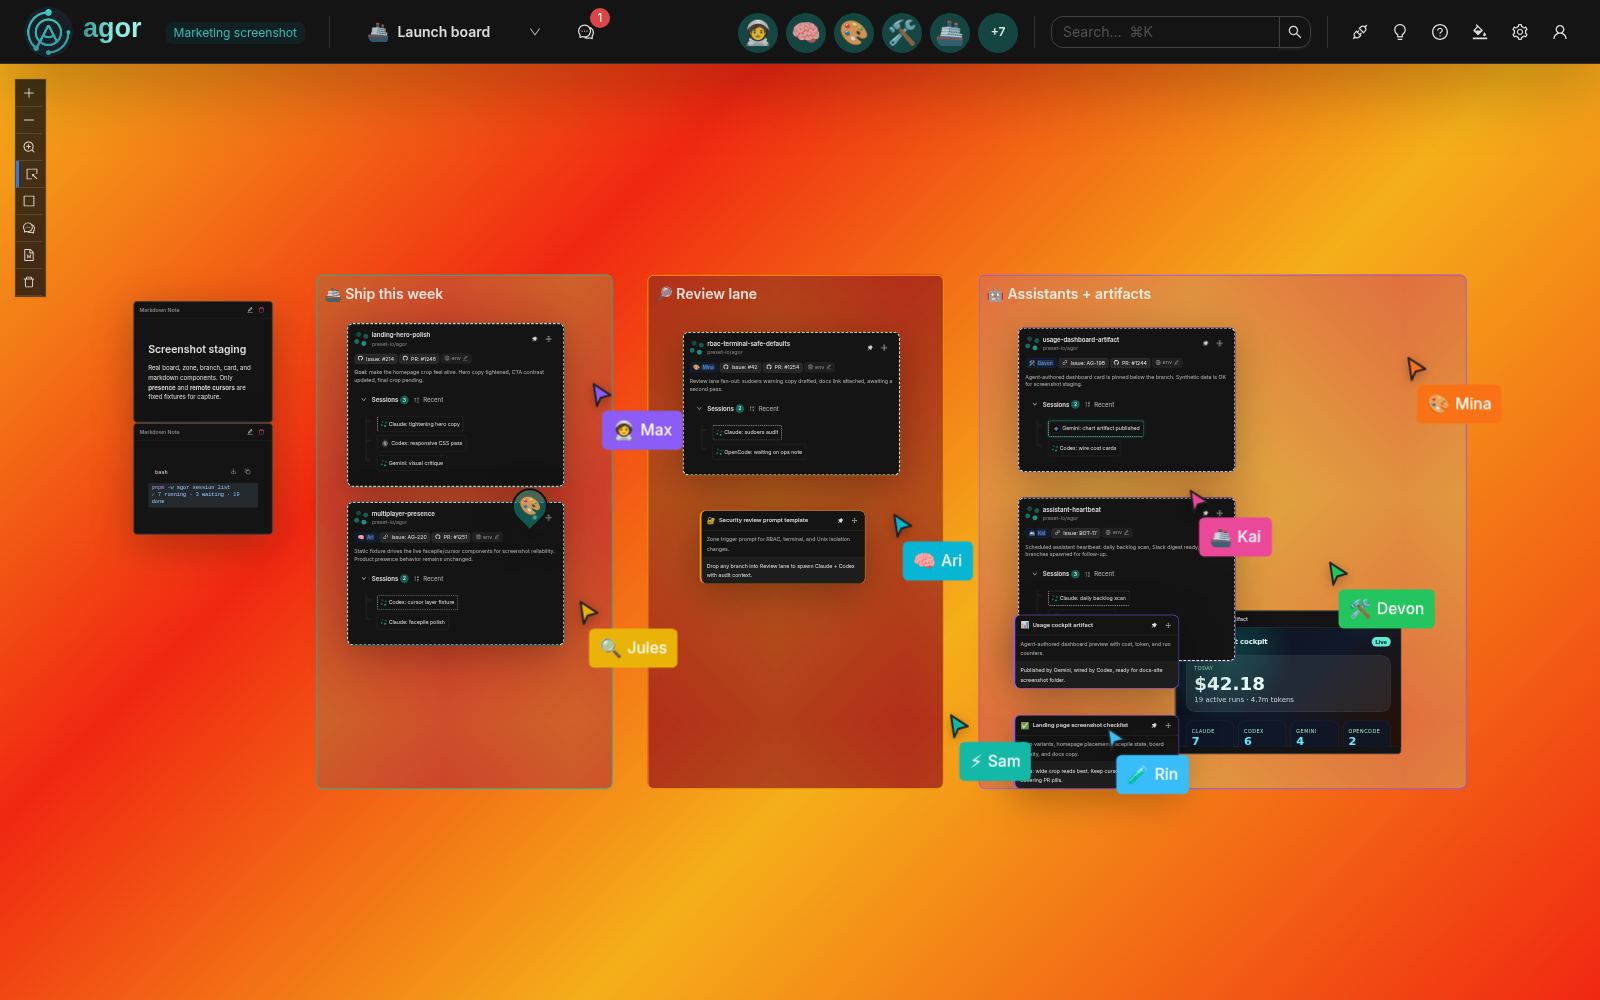
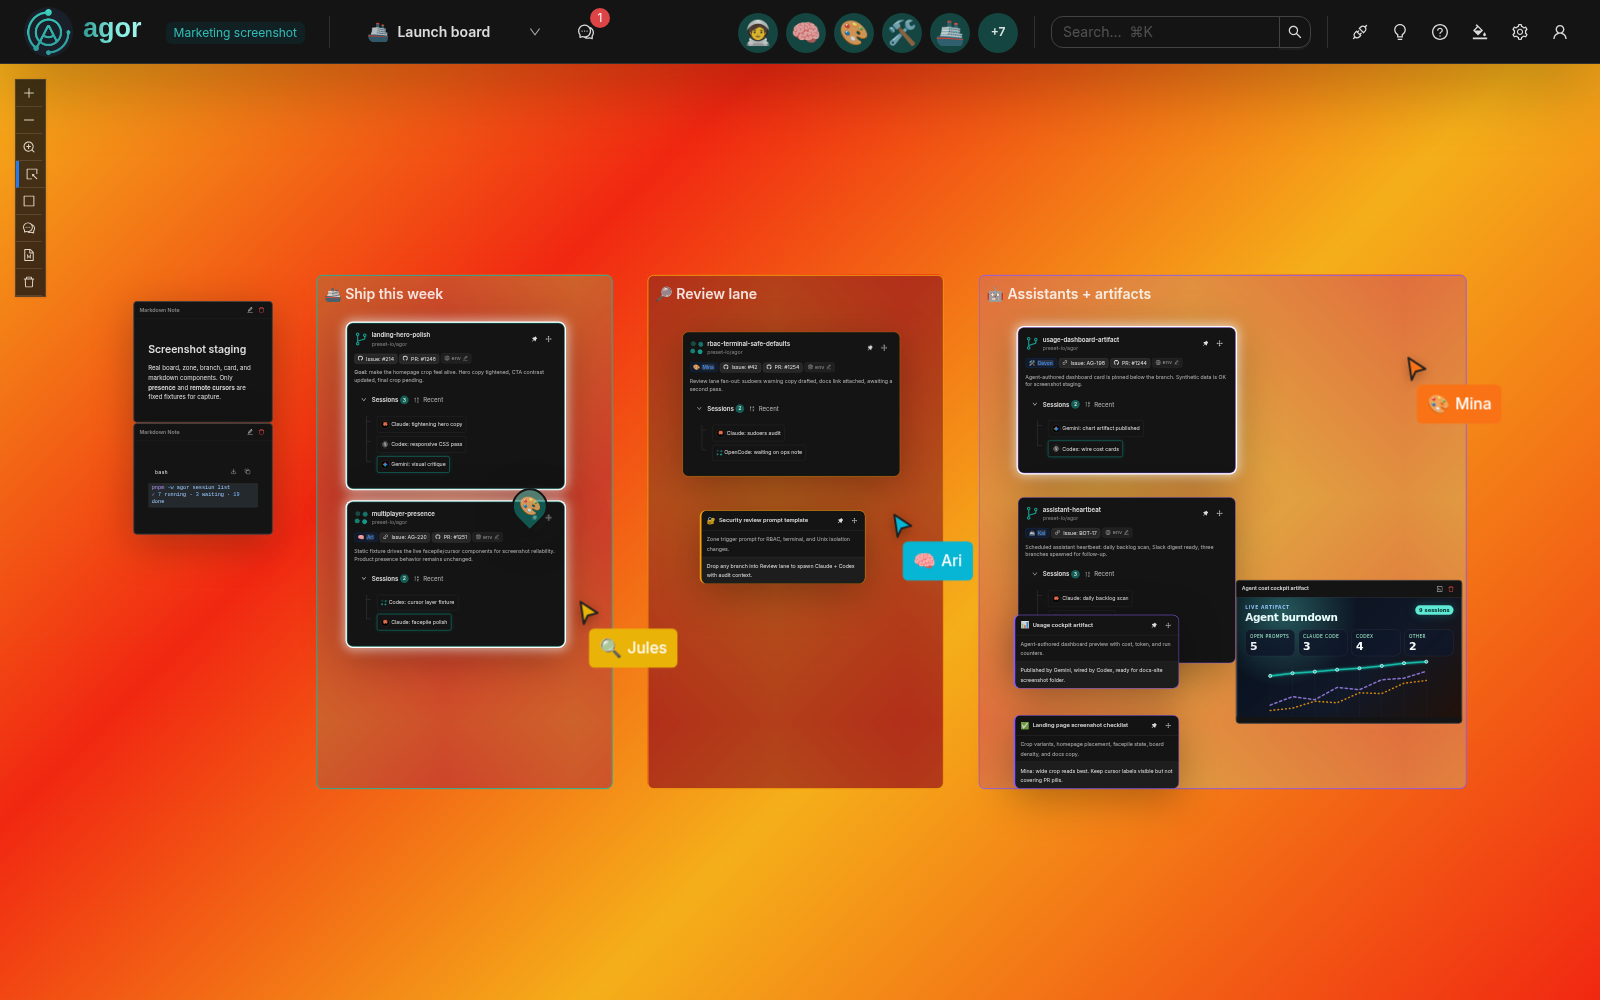
Refine marketing artifact and board activity

diff --git a/apps/agor-ui/src/pages/MarketingScreenshotPage.tsx b/apps/agor-ui/src/pages/MarketingScreenshotPage.tsx
@@ -106,50 +106,93 @@ const board: Board = {
     },
     'app-usage-cockpit': {
       type: 'app',
-      x: 2030,
-      y: 850,
+      x: 2170,
+      y: 780,
       width: 520,
       height: 330,
       title: 'Agent cost cockpit artifact',
       description: 'Published by an assistant as a live board artifact.',
-      template: 'vanilla',
+      template: 'react',
       showEditor: false,
       showConsole: false,
-      entryFile: '/index.js',
+      entryFile: '/App.js',
       files: {
-        '/index.html': '<div id="app"></div><script type="module" src="/index.js"></script>',
-        '/index.js':
-          `
+        '/App.js': `
           import './styles.css';
-          document.getElementById('app').innerHTML = ` +
-          '`' +
-          `
-            <div class="artifact">
-              <div class="top"><span>📊 Agent cost cockpit</span><b>Live</b></div>
-              <section class="hero"><small>today</small><strong>$42.18</strong><em>19 active runs · 4.7m tokens</em></section>
-              <div class="grid">
-                <div><small>Claude</small><b>7</b></div><div><small>Codex</small><b>6</b></div><div><small>Gemini</small><b>4</b></div><div><small>OpenCode</small><b>2</b></div>
-              </div>
-              <div class="bars"><i style="height:64%"></i><i style="height:48%"></i><i style="height:82%"></i><i style="height:56%"></i><i style="height:92%"></i><i style="height:70%"></i></div>
-            </div>
-          ` +
-          '`' +
-          `;
+
+          const burndown = [
+            [34, 42], [92, 35], [150, 31], [208, 26], [266, 22], [324, 16], [382, 9], [440, 5],
+          ];
+          const claude = [
+            [34, 118], [92, 96], [150, 104], [208, 72], [266, 78], [324, 52], [382, 48], [440, 30],
+          ];
+          const codex = [
+            [34, 132], [92, 126], [150, 108], [208, 112], [266, 86], [324, 88], [382, 61], [440, 54],
+          ];
+          const toPath = (points) => points.map(([x, y], index) => \`\${index ? 'L' : 'M'}\${x} \${y}\`).join(' ');
+
+          export default function App() {
+            return (
+              <main className="artifact">
+                <header>
+                  <div>
+                    <p>Live artifact</p>
+                    <h1>Agent burndown</h1>
+                  </div>
+                  <span className="pill">9 sessions</span>
+                </header>
+                <section className="summary">
+                  <div><small>Open prompts</small><strong>5</strong></div>
+                  <div><small>Claude Code</small><strong>3</strong></div>
+                  <div><small>Codex</small><strong>4</strong></div>
+                  <div><small>Other</small><strong>2</strong></div>
+                </section>
+                <svg viewBox="0 0 480 170" className="chart" role="img" aria-label="Burndown chart by agent">
+                  <defs>
+                    <linearGradient id="area" x1="0" x2="0" y1="0" y2="1">
+                      <stop stopColor="#14b8a6" stopOpacity=".45" />
+                      <stop offset="1" stopColor="#14b8a6" stopOpacity=".02" />
+                    </linearGradient>
+                    <filter id="glow"><feGaussianBlur stdDeviation="3" result="blur" /><feMerge><feMergeNode in="blur" /><feMergeNode in="SourceGraphic" /></feMerge></filter>
+                  </defs>
+                  {[34,92,150,208,266,324,382,440].map((x) => <line key={x} x1={x} x2={x} y1="18" y2="148" />)}
+                  <path d={\`\${toPath(burndown)} L440 148 L34 148 Z\`} fill="url(#area)" />
+                  <path d={toPath(claude)} className="claude" />
+                  <path d={toPath(codex)} className="codex" />
+                  <path d={toPath(burndown)} className="burn" filter="url(#glow)" />
+                  {burndown.map(([x, y]) => <circle key={x} cx={x} cy={y} r="4" />)}
+                </svg>
+                <footer>
+                  <span><i className="burn-dot" /> remaining work</span>
+                  <span><i className="claude-dot" /> claude-code</span>
+                  <span><i className="codex-dot" /> codex</span>
+                </footer>
+              </main>
+            );
+          }
         `,
         '/styles.css': `
-          body { margin:0; min-height:100vh; background:#060b14; color:#eaffff; font-family: Inter, ui-sans-serif, system-ui; }
-          .artifact { height:100vh; box-sizing:border-box; padding:22px; background: radial-gradient(circle at 20% 20%, rgba(20,184,166,.34), transparent 35%), linear-gradient(135deg, #0b1220, #111827 55%, #251005); border:1px solid rgba(255,255,255,.14); }
-          .top { display:flex; justify-content:space-between; align-items:center; font-weight:800; letter-spacing:-.02em; }
-          .top b { color:#06251f; background:#5eead4; padding:4px 9px; border-radius:999px; font-size:12px; }
-          .hero { margin:20px 0; padding:18px; border-radius:22px; background:rgba(255,255,255,.08); border:1px solid rgba(255,255,255,.12); }
-          small { color:#a7f3d0; text-transform:uppercase; font-size:11px; letter-spacing:.12em; }
-          strong { display:block; font-size:42px; line-height:1; margin:6px 0; }
-          em { color:#cbd5e1; font-style:normal; }
-          .grid { display:grid; grid-template-columns:repeat(4,1fr); gap:10px; }
-          .grid div { border-radius:16px; padding:12px; background:rgba(15,23,42,.82); border:1px solid rgba(255,255,255,.08); }
-          .grid b { display:block; font-size:26px; color:#67e8f9; }
-          .bars { height:70px; display:flex; gap:8px; align-items:end; margin-top:18px; }
-          .bars i { flex:1; display:block; border-radius:8px 8px 2px 2px; background:linear-gradient(#fbbf24, #f97316 45%, #14b8a6); box-shadow:0 0 24px rgba(251,146,60,.28); }
+          body { margin:0; background:#06111f; color:#eaffff; font-family: Inter, ui-sans-serif, system-ui; }
+          .artifact { min-height:100vh; box-sizing:border-box; padding:18px; background:radial-gradient(circle at 20% 10%, rgba(94,234,212,.32), transparent 34%), linear-gradient(135deg,#07111f,#111827 56%,#241005); border:1px solid rgba(255,255,255,.14); }
+          header { display:flex; justify-content:space-between; align-items:flex-start; gap:12px; }
+          p { margin:0; color:#93c5fd; text-transform:uppercase; font-size:10px; letter-spacing:.16em; font-weight:800; }
+          h1 { margin:2px 0 0; font-size:24px; letter-spacing:-.04em; }
+          .pill { color:#052e2b; background:#5eead4; padding:4px 9px; border-radius:999px; font-size:12px; font-weight:900; box-shadow:0 0 22px rgba(20,184,166,.35); }
+          .summary { display:grid; grid-template-columns:repeat(4,1fr); gap:8px; margin:14px 0 8px; }
+          .summary div { padding:10px; border-radius:14px; background:rgba(15,23,42,.82); border:1px solid rgba(255,255,255,.09); }
+          small { display:block; color:#a7f3d0; font-size:10px; text-transform:uppercase; letter-spacing:.09em; white-space:nowrap; }
+          strong { display:block; margin-top:4px; font-size:25px; line-height:1; color:#f8fafc; }
+          .chart { width:100%; height:150px; overflow:visible; }
+          line { stroke:rgba(255,255,255,.08); stroke-width:1; }
+          path { fill:none; stroke-linecap:round; stroke-linejoin:round; stroke-width:4; }
+          circle { fill:#14b8a6; stroke:#ecfeff; stroke-width:2; }
+          .burn { stroke:#14b8a6; }
+          .claude { stroke:#a78bfa; opacity:.78; stroke-dasharray:6 7; }
+          .codex { stroke:#f59e0b; opacity:.82; stroke-dasharray:2 8; }
+          footer { display:flex; gap:12px; align-items:center; color:#cbd5e1; font-size:11px; flex-wrap:wrap; }
+          footer span { display:flex; align-items:center; gap:5px; }
+          i { width:8px; height:8px; border-radius:99px; display:inline-block; }
+          .burn-dot { background:#14b8a6; }.claude-dot { background:#a78bfa; }.codex-dot { background:#f59e0b; }
         `,
       },
     },
@@ -195,7 +238,7 @@ interface BranchFixture {
   pr?: string;
   notes: string;
   env: { status: string; url: string };
-  sessions: ReadonlyArray<readonly [string, string, string, string]>;
+  sessions: ReadonlyArray<readonly [string, string, string, string, boolean?]>;
 }
 
 const branchFixtures = [
@@ -211,9 +254,9 @@ const branchFixtures = [
       '**Goal:** make the homepage crop feel alive. Hero copy tightened, CTA contrast updated, final crop pending.',
     env: { status: 'running', url: 'http://localhost:5174' },
     sessions: [
-      ['Claude', 'claude-code', SessionStatus.RUNNING, 'tightening hero copy'],
+      ['Claude', 'claude-code', SessionStatus.COMPLETED, 'tightening hero copy'],
       ['Codex', 'codex', SessionStatus.COMPLETED, 'responsive CSS pass'],
-      ['Gemini', 'gemini', SessionStatus.RUNNING, 'visual critique'],
+      ['Gemini', 'gemini', SessionStatus.IDLE, 'visual critique', true],
     ],
   },
   {
@@ -229,7 +272,7 @@ const branchFixtures = [
     env: { status: 'running', url: 'http://localhost:9182' },
     sessions: [
       ['Codex', 'codex', SessionStatus.RUNNING, 'cursor layer fixture'],
-      ['Claude', 'claude-code', SessionStatus.RUNNING, 'facepile polish'],
+      ['Claude', 'claude-code', SessionStatus.COMPLETED, 'facepile polish', true],
     ],
   },
   {
@@ -244,7 +287,7 @@ const branchFixtures = [
       'Review lane fan-out: sudoers warning copy drafted, docs link attached, awaiting a second pass.',
     env: { status: 'starting', url: 'http://localhost:3030' },
     sessions: [
-      ['Claude', 'claude-code', SessionStatus.RUNNING, 'sudoers audit'],
+      ['Claude', 'claude-code', SessionStatus.COMPLETED, 'sudoers audit'],
       ['OpenCode', 'opencode', SessionStatus.AWAITING_PERMISSION, 'waiting on ops note'],
     ],
   },
@@ -261,7 +304,7 @@ const branchFixtures = [
     env: { status: 'running', url: 'http://localhost:7341' },
     sessions: [
       ['Gemini', 'gemini', SessionStatus.COMPLETED, 'chart artifact published'],
-      ['Codex', 'codex', SessionStatus.RUNNING, 'wire cost cards'],
+      ['Codex', 'codex', SessionStatus.IDLE, 'wire cost cards', true],
     ],
   },
   {
@@ -275,9 +318,9 @@ const branchFixtures = [
       'Scheduled assistant heartbeat: daily backlog scan, Slack digest ready, three branches spawned for follow-up.',
     env: { status: 'stopped', url: 'http://localhost:7777' },
     sessions: [
-      ['Claude', 'claude-code', SessionStatus.RUNNING, 'daily backlog scan'],
+      ['Claude', 'claude-code', SessionStatus.IDLE, 'daily backlog scan'],
       ['Codex', 'codex', SessionStatus.COMPLETED, 'triage report'],
-      ['Gemini', 'gemini', SessionStatus.RUNNING, 'summarize risks'],
+      ['Gemini', 'gemini', SessionStatus.COMPLETED, 'summarize risks'],
     ],
   },
 ] as const satisfies readonly BranchFixture[];
@@ -335,9 +378,9 @@ const boardEntityObjects: BoardEntityObject[] = branchFixtures.map((fixture) => 
 
 const sessions = branchFixtures.flatMap((fixture, branchIndex) =>
   fixture.sessions.map(
-    ([title, tool, status, description], sessionIndex) =>
+    ([title, tool, status, description, readyForPrompt], sessionIndex) =>
       ({
-        session_id: `${fixture.id.slice(0, 28)}${sessionIndex + 1}`,
+        session_id: `${fixture.id}-session-${sessionIndex + 1}`,
         agentic_tool: tool,
         status,
         created_at: now,
@@ -357,7 +400,7 @@ const sessions = branchFixtures.flatMap((fixture, branchIndex) =>
         tasks: [],
         title: `${title}: ${description}`,
         description,
-        ready_for_prompt: status === SessionStatus.COMPLETED && sessionIndex === 0,
+        ready_for_prompt: readyForPrompt === true,
         archived: false,
       }) as Session
   )
@@ -467,14 +510,9 @@ const activeUsers: ActiveUser[] = users.map((user, index) => ({
 }));
 
 const staticCursors: StaticRemoteCursor[] = [
-  { userId: users[0].user_id, user: users[0], color: '#8b5cf6', x: 680, y: 320 },
   { userId: users[1].user_id, user: users[1], color: '#06b6d4', x: 1370, y: 620 },
   { userId: users[2].user_id, user: users[2], color: '#f97316', x: 2550, y: 260 },
-  { userId: users[3].user_id, user: users[3], color: '#22c55e', x: 2370, y: 730 },
-  { userId: users[4].user_id, user: users[4], color: '#ec4899', x: 2050, y: 565 },
   { userId: users[5].user_id, user: users[5], color: '#eab308', x: 650, y: 820 },
-  { userId: users[6].user_id, user: users[6], color: '#14b8a6', x: 1500, y: 1080 },
-  { userId: users[7].user_id, user: users[7], color: '#38bdf8', x: 1860, y: 1110 },
 ];
 
 export const MarketingScreenshotPage = () => {
@@ -583,7 +621,7 @@ export const MarketingScreenshotPage = () => {
                   commentById={maps.commentById}
                   cardById={maps.cardById}
                   currentUserId={users[0].user_id}
-                  selectedSessionId={sessions[0]?.session_id ?? null}
+                  selectedSessionId={null}
                   availableAgents={[]}
                   mcpServerById={new Map()}
                   sessionMcpServerIds={new Map()}
